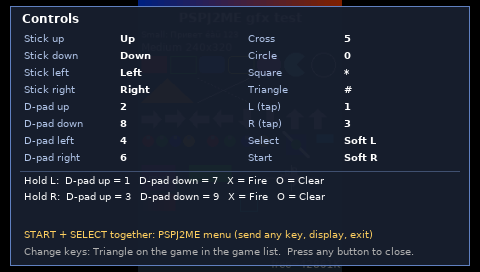
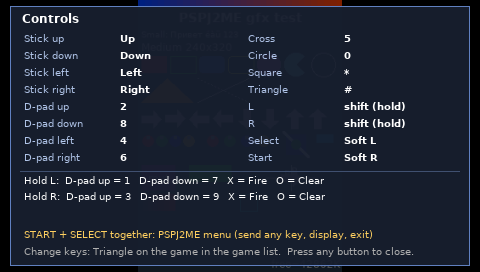
1.2: L/R are pure shift buttons (no tap keys)
- With shoulder combos on, L and R alone send nothing; L/R pick the
  keypad column, D-pad up/down the row (1 3 / 7 9), X = Fire, O = Clear
- Shoulder combos off: L/R are plain keys (1 / 3) as before
- Controls panel shows L/R as "shift (hold)"; README updated
- Test suite now fails when the keymap unit test fails

Claude-Session: https://claude.ai/code/session_01NEtd6aCrFhv3zjoZ1paz4K

diff --git a/src/platform/keymap.c b/src/platform/keymap.c
@@ -1,9 +1,9 @@
 /* PSP button -> phone key mapping with "shoulder shift" combos.
  *
  * Base layer: every input sends keys[input].
- * Shoulder shift (when enabled): L and R don't send a key when pressed. While one is held,
- * D-pad Up/Down and X/O send the combo keys below. If L/R is released without having been
- * used for a combo, its own key (keys[B_L] / keys[B_R], 1 and 3 by default) is tapped. */
+ * Shoulder shift (when enabled): L and R are pure shift buttons and send no key of their own.
+ * While one is held, D-pad Up/Down and X/O send the combo keys below.
+ * With shoulder shift off, L and R send keys[B_L] / keys[B_R] (1 and 3 by default). */
 #include "keymap.h"
 #include "platform.h"
 #include <string.h>
@@ -18,14 +18,6 @@ int keymap_combo_code(int shoulderIsR, int button) {
     return 0;
 }
 
-static void tap(KeyMap *km, int code, int64_t now, KeyPostFn post) {
-    if (!code) return;
-    post(KEY_PRESS, code);
-    for (int i = 0; i < 8; i++)
-        if (!km->pend[i].code) { km->pend[i].code = code; km->pend[i].at = now + 80; return; }
-    post(KEY_RELEASE, code); /* no free slot: release immediately */
-}
-
 void keymap_update(KeyMap *km, const int *keys, int shoulders, const int *state, const int *suppressPress,
                    int64_t now, KeyPostFn post) {
     /* scheduled releases of tapped keys */
@@ -36,10 +28,8 @@ void keymap_update(KeyMap *km, const int *keys, int shoulders, const int *state,
     memcpy(st, state, sizeof st);
     if (shoulders) {
         /* L / R act as shift buttons */
-        if (st[B_L] && !km->lDown) { km->lDown = 1; km->lUsed = 0; }
-        if (!st[B_L] && km->lDown) { km->lDown = 0; if (!km->lUsed) tap(km, keys[B_L], now, post); }
-        if (st[B_R] && !km->rDown) { km->rDown = 1; km->rUsed = 0; }
-        if (!st[B_R] && km->rDown) { km->rDown = 0; if (!km->rUsed) tap(km, keys[B_R], now, post); }
+        km->lDown = st[B_L];
+        km->rDown = st[B_R];
         /* a shoulder that was a plain key before combos were enabled must not stay stuck */
         st[B_L] = st[B_R] = 0;
     } else {
@@ -52,9 +42,6 @@ void keymap_update(KeyMap *km, const int *keys, int shoulders, const int *state,
             if (shoulders && (km->lDown || km->rDown)) {
                 int c = keymap_combo_code(!km->lDown, i);   /* L wins if both are held */
                 if (c) code = c;
-                /* any button pressed while a shoulder is held cancels that shoulder's tap */
-                if (km->lDown) km->lUsed = 1;
-                if (km->rDown) km->rUsed = 1;
             }
             if (code) { km->heldCode[i] = code; post(KEY_PRESS, code); }
         } else if (!st[i] && km->heldCode[i]) {
@@ -69,6 +56,4 @@ void keymap_release_all(KeyMap *km, KeyPostFn post) {
         if (km->heldCode[i]) { post(KEY_RELEASE, km->heldCode[i]); km->heldCode[i] = 0; }
     for (int i = 0; i < 8; i++)
         if (km->pend[i].code) { post(KEY_RELEASE, km->pend[i].code); km->pend[i].code = 0; }
-    /* a shoulder held across a menu must not tap its key afterwards */
-    km->lUsed = km->rUsed = 1;
 }

diff --git a/tests/keymap/keymap_test.c b/tests/keymap/keymap_test.c
@@ -36,15 +36,14 @@ int main(void) {
     reset(); st[B_UP] = 1; step(); st[B_UP] = 0; step();
     expect("D-pad up = 2", "+2 -2 ");
 
-    reset(); st[B_L] = 1; step(); expect("L press sends nothing yet", "");
-    st[B_L] = 0; step(); expect("L tap sends 1 on release", "+1 ");
-    t += 100; step(); expect("...and releases it shortly after", "-1 ");
+    reset(); st[B_L] = 1; step(); st[B_L] = 0; step(); t += 100; step();
+    expect("L alone sends nothing", "");
 
     reset(); st[B_R] = 1; step(); st[B_R] = 0; step(); t += 100; step();
-    expect("R tap = 3", "+3 -3 ");
+    expect("R alone sends nothing", "");
 
     reset(); st[B_L] = 1; step(); st[B_UP] = 1; step(); st[B_UP] = 0; step(); st[B_L] = 0; step(); t += 100; step();
-    expect("L+Up = 1, no extra tap", "+1 -1 ");
+    expect("L+Up = 1", "+1 -1 ");
 
     reset(); st[B_L] = 1; step(); st[B_DOWN] = 1; step(); st[B_DOWN] = 0; st[B_L] = 0; step(); t += 100; step();
     expect("L+Down = 7", "+7 -7 ");
@@ -59,13 +58,13 @@ int main(void) {
     expect("R+X = Fire", "+-5 --5 ");
 
     reset(); st[B_L] = 1; step(); st[B_LEFT] = 1; step(); st[B_LEFT] = 0; step(); st[B_L] = 0; step(); t += 100; step();
-    expect("L+Left = 4 (no combo), no tap of 1", "+4 -4 ");
+    expect("L+Left = 4 (no combo)", "+4 -4 ");
 
     reset(); st[B_L] = 1; step(); st[B_UP] = 1; step(); st[B_L] = 0; step(); st[B_UP] = 0; step(); t += 100; step();
     expect("release L before Up: 1 released correctly", "+1 -1 ");
 
     reset(); st[B_UP] = 1; step(); st[B_L] = 1; step(); st[B_UP] = 0; step(); st[B_L] = 0; step(); t += 100; step();
-    expect("Up held before L stays 2; L then taps 1", "+2 -2 +1 -1 ");
+    expect("Up held before L stays 2", "+2 -2 ");
 
     reset(); st[B_L] = 1; st[B_R] = 1; step(); st[B_UP] = 1; step(); st[B_UP] = 0; st[B_L] = 0; st[B_R] = 0; step(); t += 100; step();
     expect("L+R+Up: L wins = 1", "+1 -1 ");
@@ -76,8 +75,9 @@ int main(void) {
     reset(); st[B_L] = 1; stepNoShoulders(); st[B_L] = 0; stepNoShoulders();
     expect("combos off: L = 1 immediately", "+1 -1 ");
 
-    reset(); st[B_L] = 1; step(); keymap_release_all(&km, post); log_[0] = 0; st[B_L] = 0; step(); t += 100; step();
-    expect("L held across the menu doesn't tap afterwards", "");
+    reset(); st[B_L] = 1; step(); st[B_UP] = 1; step(); keymap_release_all(&km, post); expect("menu opens: held 1 is released", "+1 -1 ");
+    st[B_UP] = 0; st[B_L] = 0; step(); t += 100; step();
+    expect("nothing extra after the menu", "");
 
     printf(fails ? "%d FAILED\n" : "all keymap tests passed\n", fails);
     return fails != 0;

diff --git a/src/platform/keymap.h b/src/platform/keymap.h
@@ -16,14 +16,13 @@ extern const int km_comboL[KM_COMBO_KEYS], km_comboR[KM_COMBO_KEYS];
 typedef struct {
     int heldCode[B_COUNT];   /* key code currently held down for each input (0 = none) */
     int lDown, rDown;        /* shoulder held (shift mode) */
-    int lUsed, rUsed;        /* shoulder was used for a combo while held */
-    struct { int code; int64_t at; } pend[8];   /* scheduled key releases (taps) */
+    struct { int code; int64_t at; } pend[8];   /* scheduled key releases (unused, kept for future taps) */
 } KeyMap;
 
 typedef void (*KeyPostFn)(int type, int code);   /* type: 1 press, 2 release */
 
 /* state[i] = 1 if input i is down. suppressPress[i] = 1 to delay a new press of input i.
- * keys[] = per-input key codes (L/R entries are their tap keys when shoulders is on). */
+ * keys[] = per-input key codes (L/R entries are used only when shoulders is off). */
 void keymap_update(KeyMap *km, const int *keys, int shoulders, const int *state, const int *suppressPress,
                    int64_t nowMs, KeyPostFn post);
 void keymap_release_all(KeyMap *km, KeyPostFn post);

diff --git a/src/platform/psp/plat_psp.c b/src/platform/psp/plat_psp.c
@@ -513,10 +513,9 @@ void draw_controls(Surface *s, const Settings *st, const char *title) {
         int col = i / 8, row = i % 8;
         int lx = x + 14 + col * 224, ly = y + 26 + row * 17;
         const char *bn = button_name(order[i]);
-        if (st->shoulderCombos && order[i] == B_L) bn = "L (tap)";
-        if (st->shoulderCombos && order[i] == B_R) bn = "R (tap)";
         ui_text(s, lx, ly, bn, 0xffb0c4e8, 0, 0);
-        snprintf(line, sizeof line, "%s", key_name(st->keys[order[i]]));
+        if (st->shoulderCombos && (order[i] == B_L || order[i] == B_R)) snprintf(line, sizeof line, "shift (hold)");
+        else snprintf(line, sizeof line, "%s", key_name(st->keys[order[i]]));
         ui_text(s, lx + 96, ly, line, 0xffffffff, 0, 1);
     }
     int cy = y + 26 + 8 * 17 + 6;

diff --git a/README.md b/README.md
@@ -37,7 +37,7 @@ Default layout. Every phone key is reachable; change it per game with **△** on
 | ✕ Cross / ○ Circle      | 5 / 0                                |
 | □ Square / △ Triangle   | * / #                                |
 | SELECT / START          | Left / right soft key                |
-| tap L / tap R           | 1 / 3                                |
+| L / R                   | shift buttons (see combos below)     |
 | **START + SELECT**      | PSPJ2ME menu                         |
 
 **Shoulder combos:** hold L or R and press another button:
@@ -49,8 +49,9 @@ Default layout. Every phone key is reachable; change it per game with **△** on
 | ✕            | Fire (OK)  | ✕            | Fire (OK)  |
 | ○            | Clear (C)  | ○            | Clear (C)  |
 
-A tap of L or R alone sends 1 or 3 when you release it. For the rare game that needs 1 or 3
-*held down*, turn **Shoulder combos** off in that game's settings: L and R then act instantly.
+L and R alone send nothing: they pick the left or right column of the keypad, and D-pad up/down
+picks the top or bottom row (1 3 / 7 9). If you prefer L and R as plain keys (1 and 3), turn
+**Shoulder combos** off in that game's settings.
 
 The **PSPJ2ME menu** (START + SELECT together) lets you send any phone key, see the controls of
 the current game, change the display mode, smoothing, FPS counter and VSync, or exit back to the
